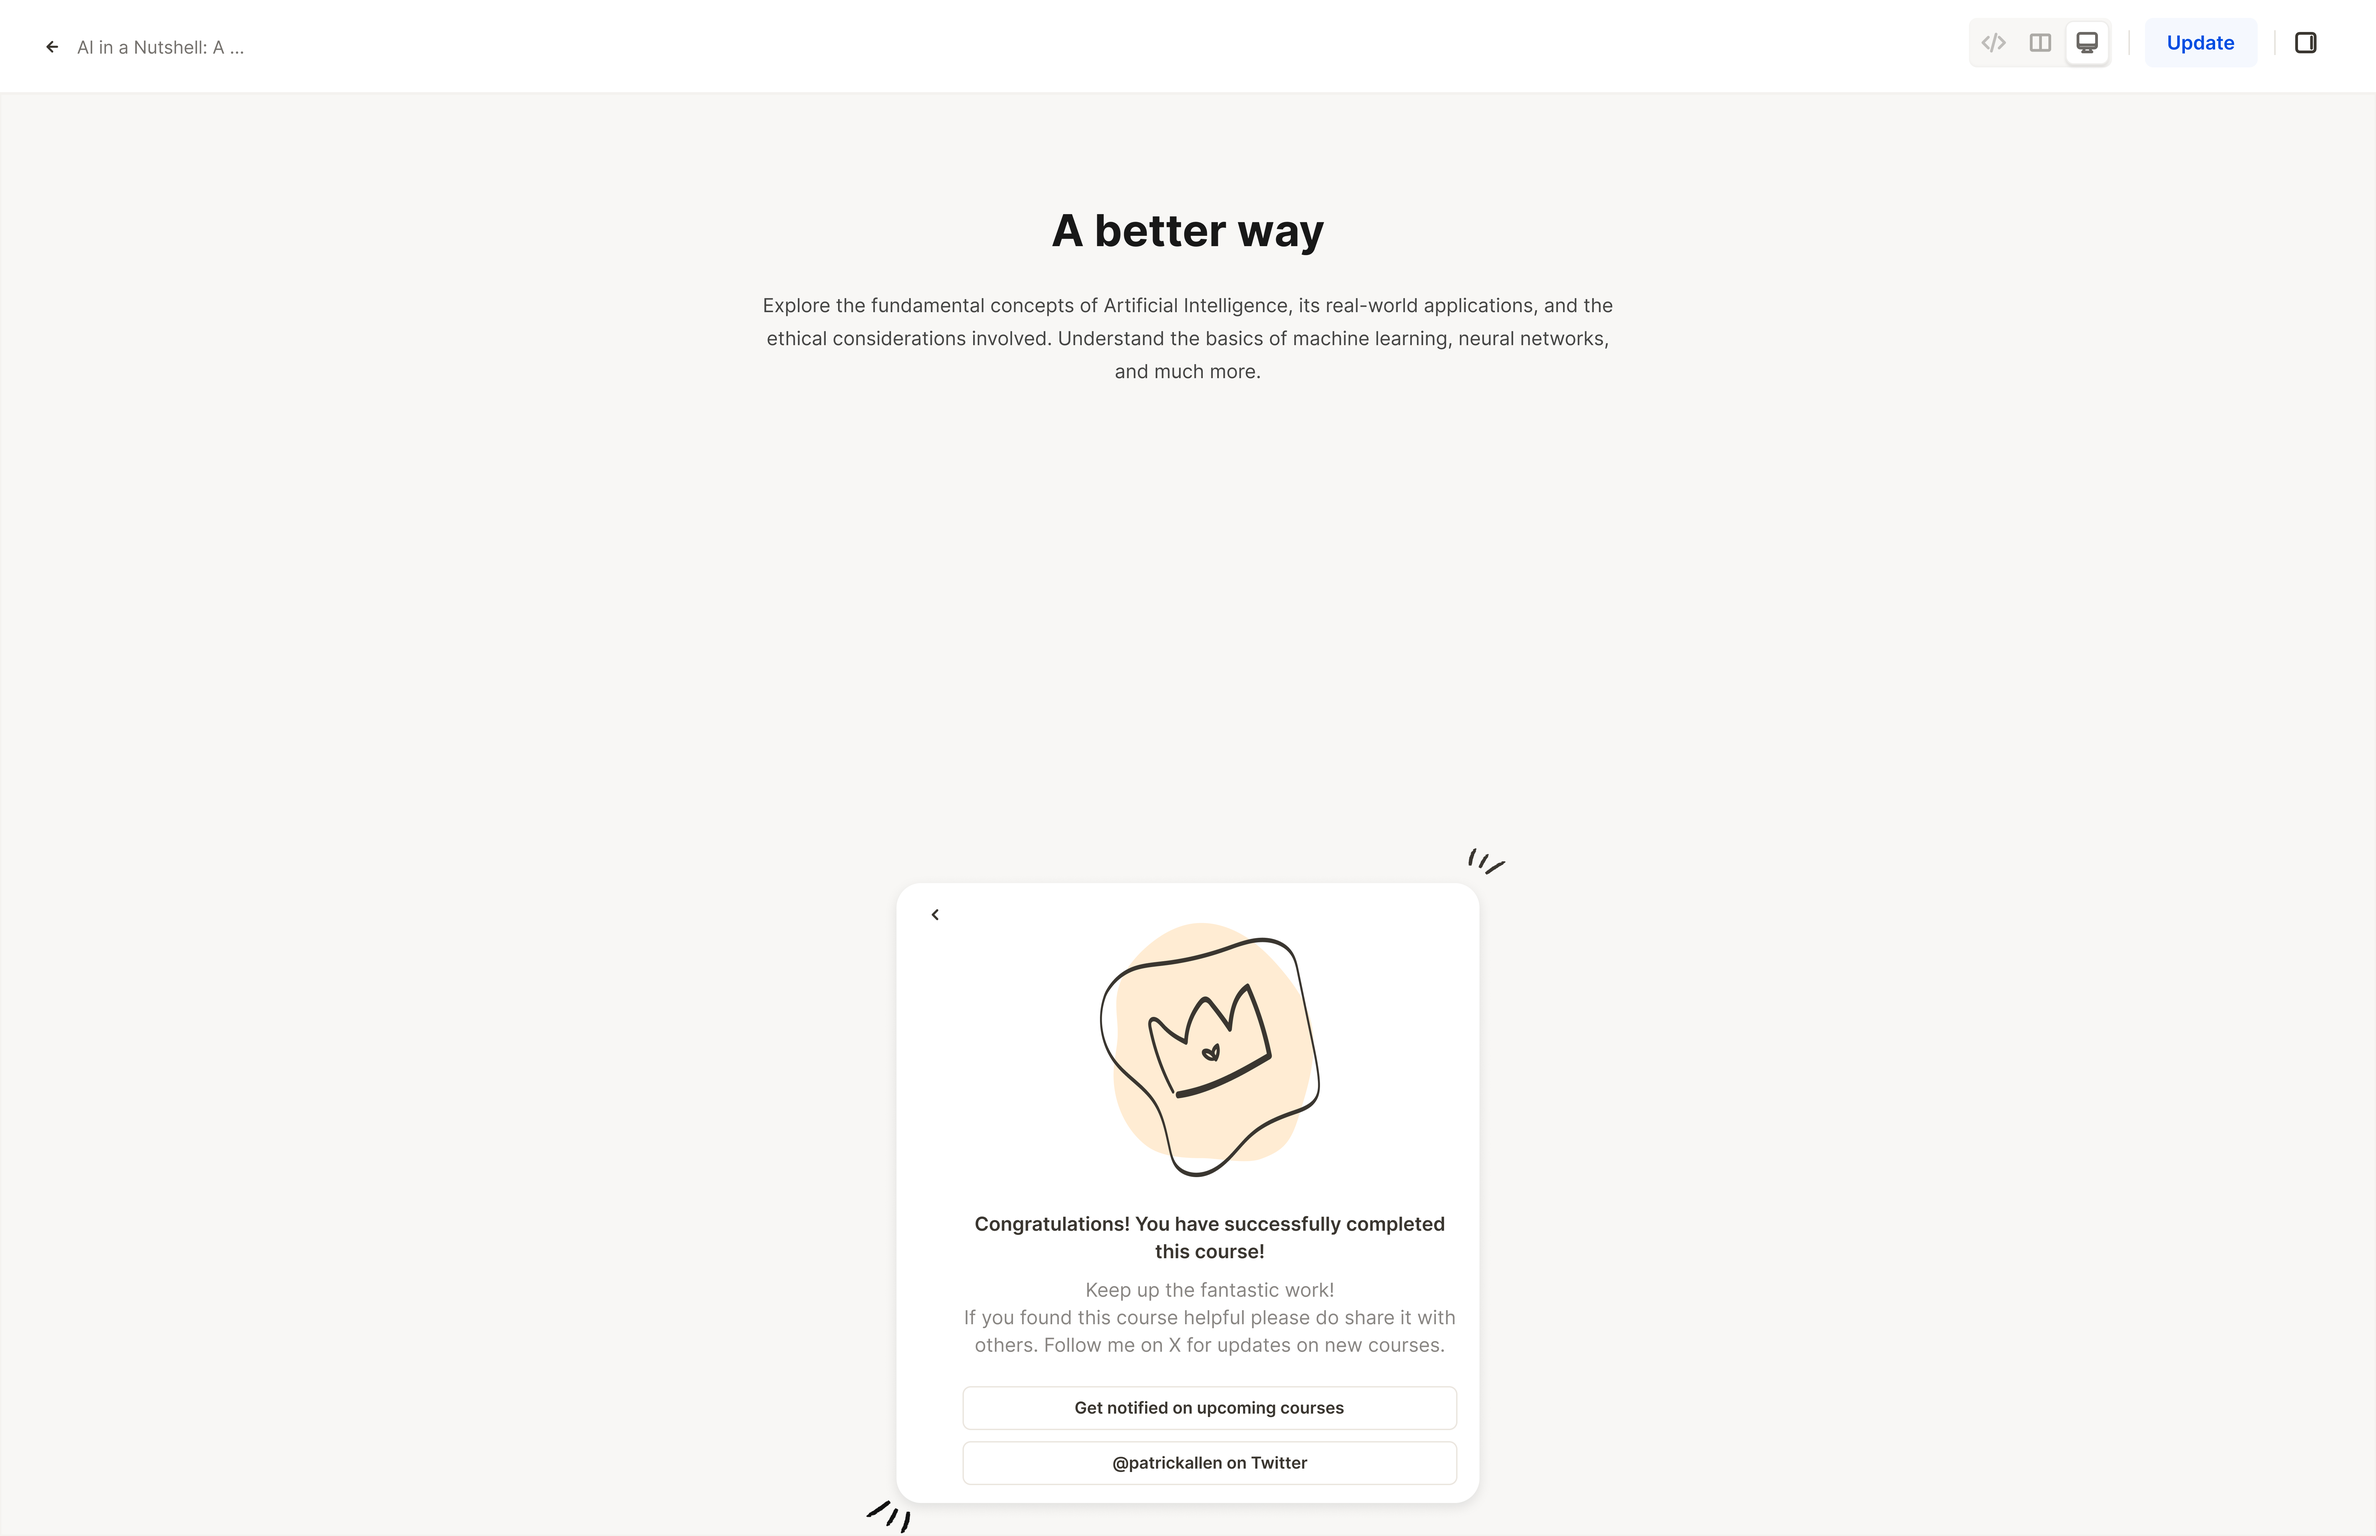
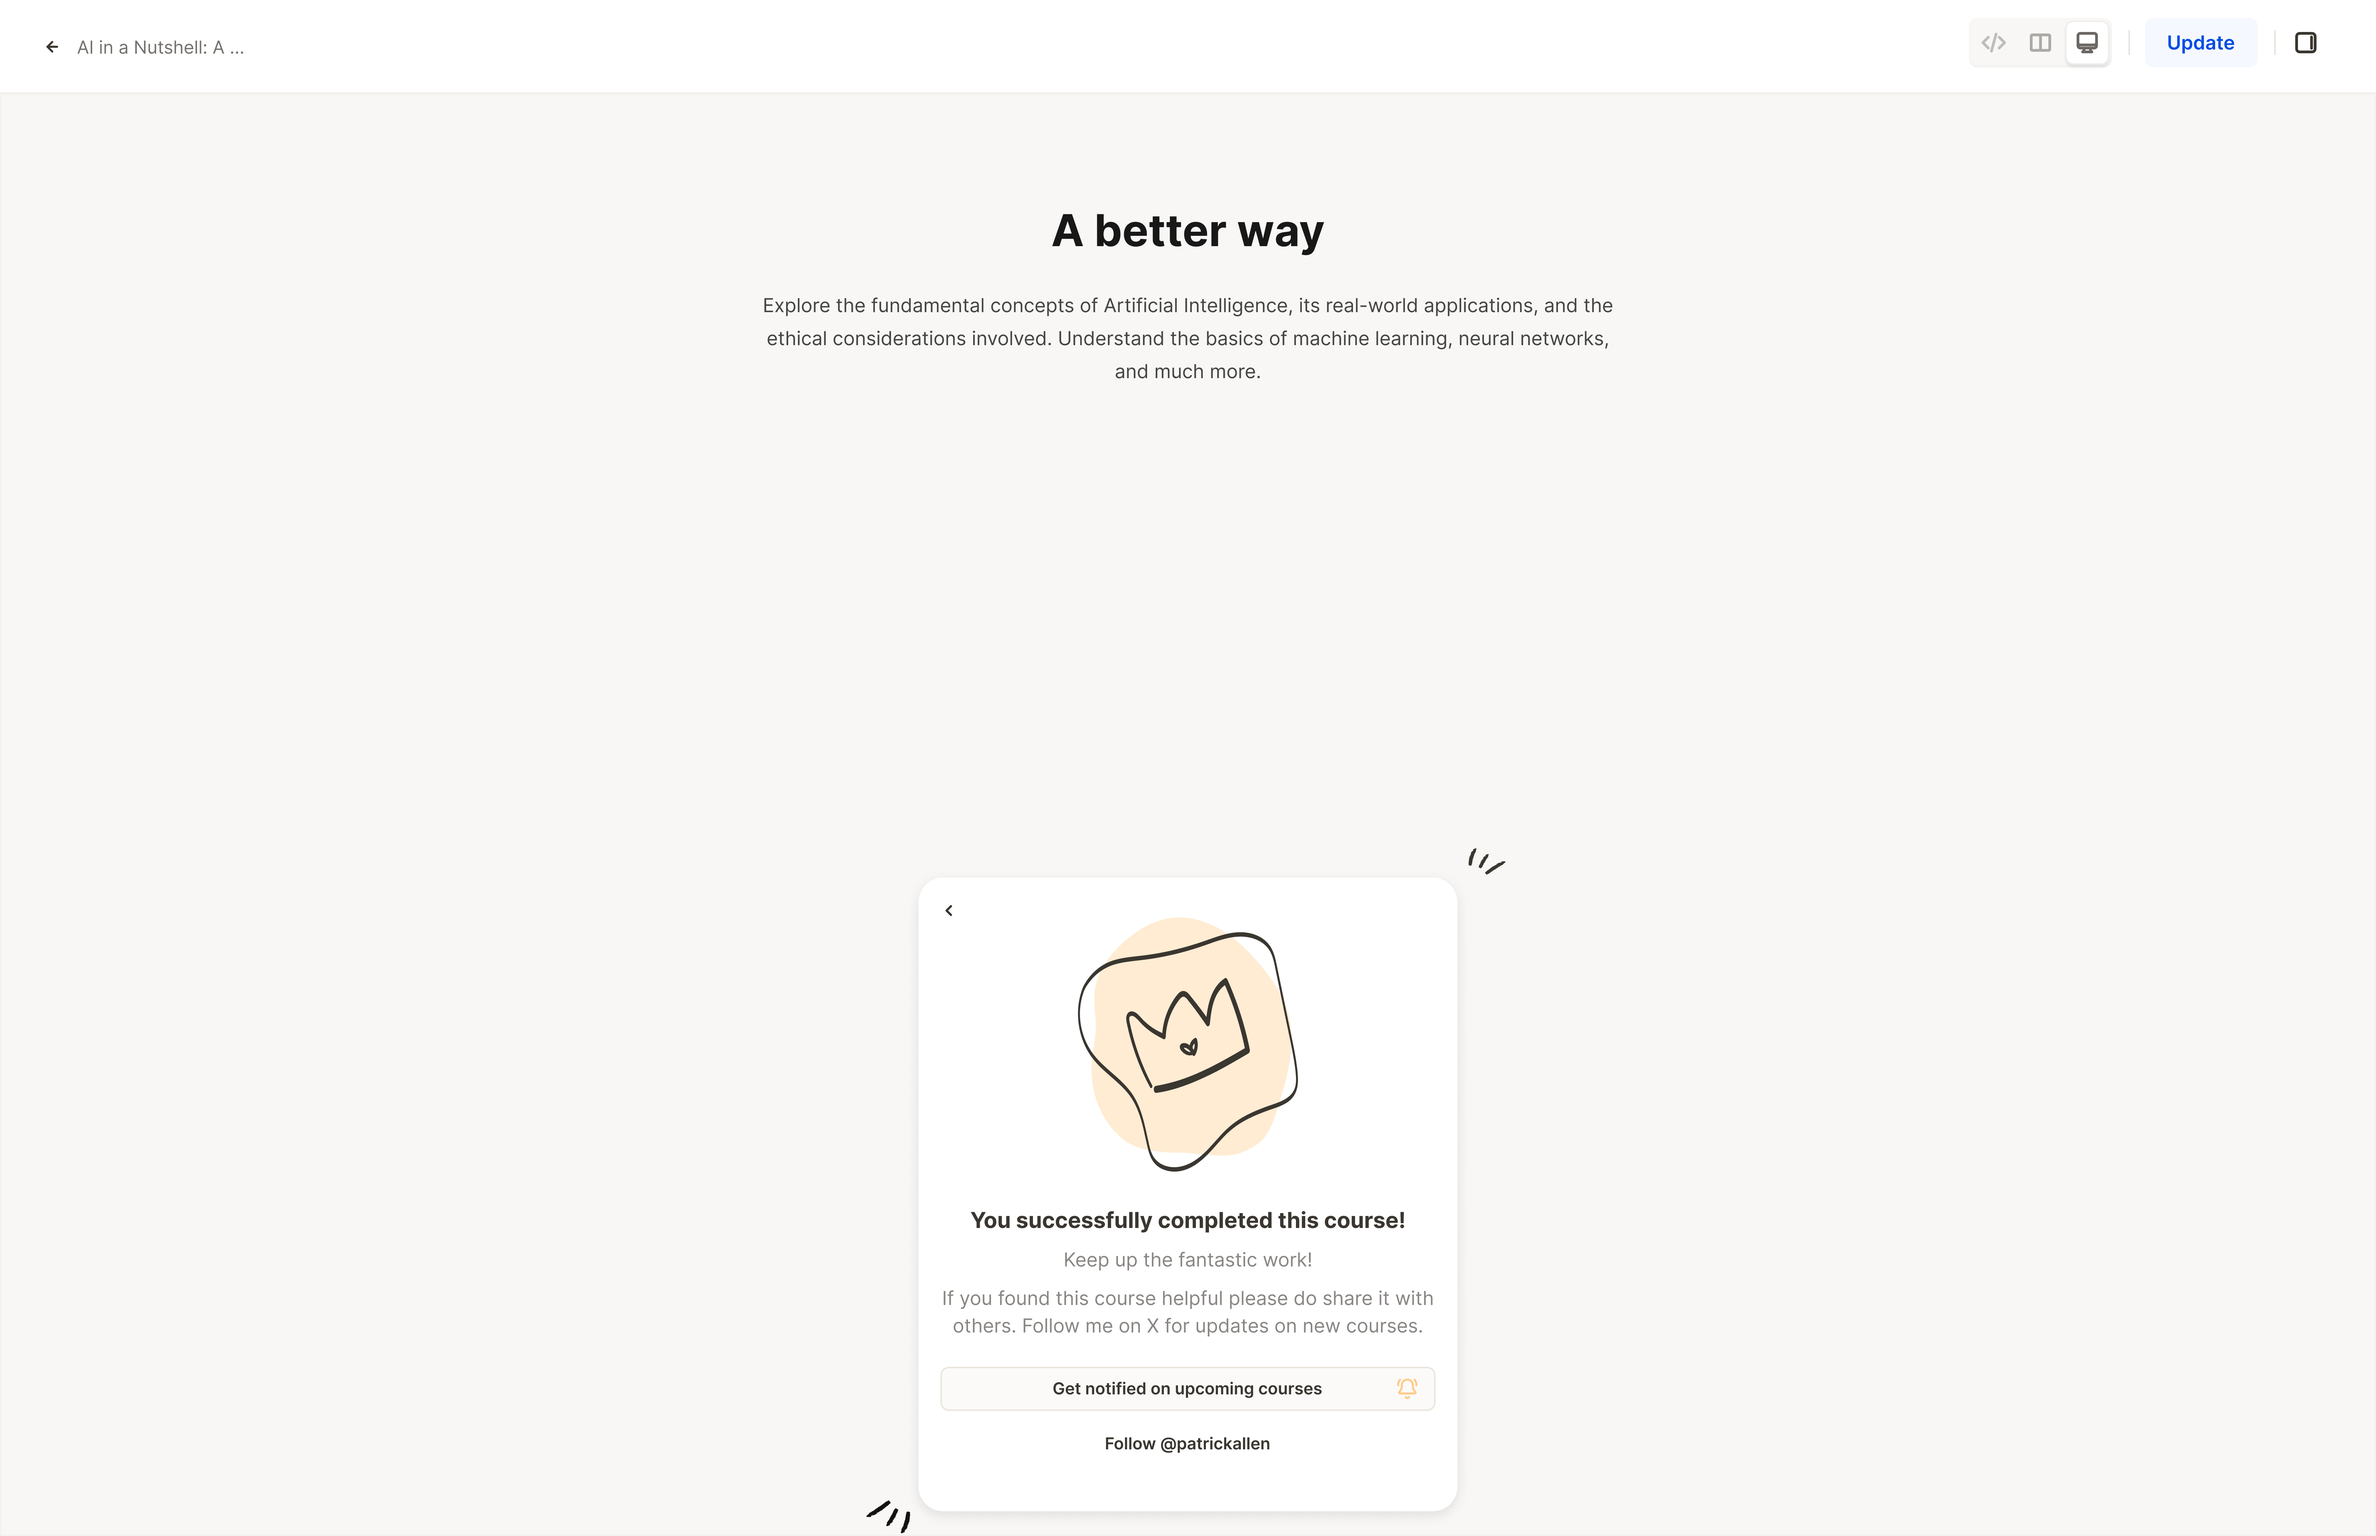
Refactored ProjectList and PortfolioViewFooter components for improved layout and styling. Added project images to enhance visual presentation. Updated Snackable project image reference for consistency. Adjusted styles for better responsiveness and user experience.

Changed region(s): [[0.4062, 0.5911, 0.5938, 0.9644]]

diff --git a/app/portfolio/components/projectList.tsx b/app/portfolio/components/projectList.tsx
@@ -1,22 +1,28 @@
 import Link from "next/link";
+import Text from "@/components/text";
 import { ArrowRightIcon } from "lucide-react";
+import { cn } from "@/lib/utils";
 
 const work = [
   {
     label: "Print Evolved",
     href: "/portfolio/print-evolved",
+    image: "/images/projects/print-evolved/preview.png",
   },
   {
     label: "Snackable",
     href: "/portfolio/snackable",
+    image: "/images/projects/snackable/preview.png",
   },
   {
     label: "Podcast App",
     href: "/portfolio/podcast-app",
+    image: "/images/projects/podcast/preview.png",
   },
   {
     label: "Mity V2",
     href: "/portfolio/mity",
+    image: "/images/projects/mity/preview.png",
   },
 ];
 
@@ -25,28 +31,36 @@ export default function ProjectList() {
     //  <section className="py-16 px-8 max-w-screen-sm mx-auto">
     <div>
       <div className="flex flex-col">
-        <h1 className="text-2xl font-bold text-stone-800 dark:text-stone-50 mt-4">
+        <Text as="h2" size="text-xl">
           Portfolio
-        </h1>
+        </Text>
       </div>
 
-      <div className="flex flex-col gap-4 mt-6">
+      <div className="grid grid-cols-2 gap-4 lg:gap-6 mt-8">
         {work.map((item, index) => (
           <Link
             href={item.href}
             key={index}
-            className="group flex items-center justify-between lg:text-lg lg:leading-snug text-stone-500 dark:text-stone-400"
+            className={cn(
+              "group transition-all duration-100 text-stone-500 dark:text-stone-400",
+              index === 0 ? "col-span-2" : ""
+            )}
           >
-            <div className="flex gap-1.5">
-              <span className="text-stone-300 dark:text-stone-200 font-semibold">
-                0{index + 1}.
-              </span>
-              <span className="text-stone-800 dark:text-stone-50 font-medium">
-                {item.label}
-              </span>
-            </div>
+            <img
+              src={item.image}
+              alt={item.label}
+              className="w-full h-auto rounded-xl"
+            />
 
-            <ArrowRightIcon className="w-4 h-4 opacity-0 group-hover:opacity-100 transition-all duration-300" />
+            <div className="flex items-center justify-between gap-1 px-2 py-3">
+              <div className="flex gap-1.5">
+                <span className="text-stone-800 dark:text-stone-50 font-medium">
+                  {item.label}
+                </span>
+              </div>
+
+              <ArrowRightIcon className="w-4 h-4 opacity-0 group-hover:opacity-100 transform group-hover:translate-x-1 transition-all duration-300" />
+            </div>
           </Link>
         ))}
       </div>

diff --git a/app/portfolio/components/portfolioViewFooter.tsx b/app/portfolio/components/portfolioViewFooter.tsx
@@ -2,7 +2,7 @@ import ProjectList from "./projectList";
 
 export default function PortfolioViewFooter() {
   return (
-    <div className="mt-16 md:mt-24 lg:mt-32 pt-12 px-8 mx-auto border-t border-stone-200 dark:border-stone-800">
+    <div className="mt-16 md:mt-24 lg:mt-32 pt-12 px-8 mx-auto border-t border-stone-100 dark:border-stone-800">
       <div className="max-w-screen-sm mx-auto px-6">
         <ProjectList />
       </div>

diff --git a/app/portfolio/snackable/page.tsx b/app/portfolio/snackable/page.tsx
@@ -95,7 +95,7 @@ const project = {
     {
       images: [
         {
-          src: "/images/projects/snackable/preview.png",
+          src: "/images/projects/snackable/preview-course.png",
           alt: "Preview screen",
         },
         {
